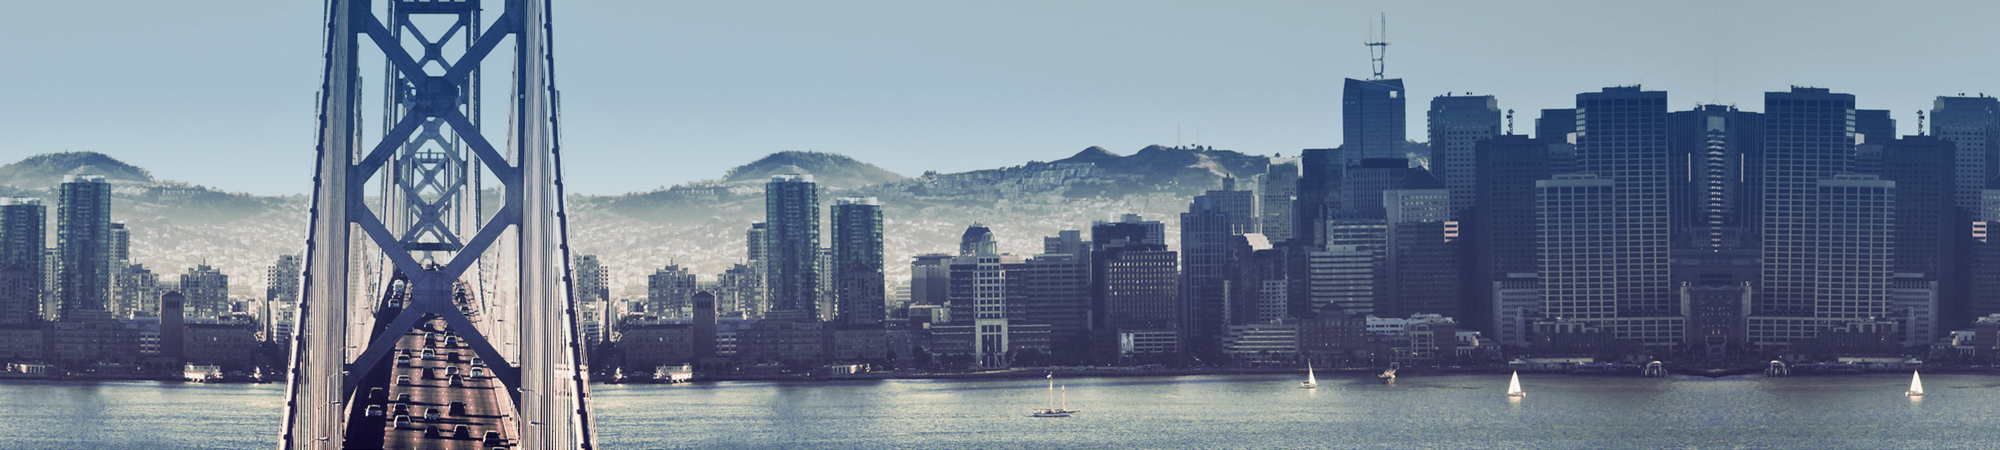
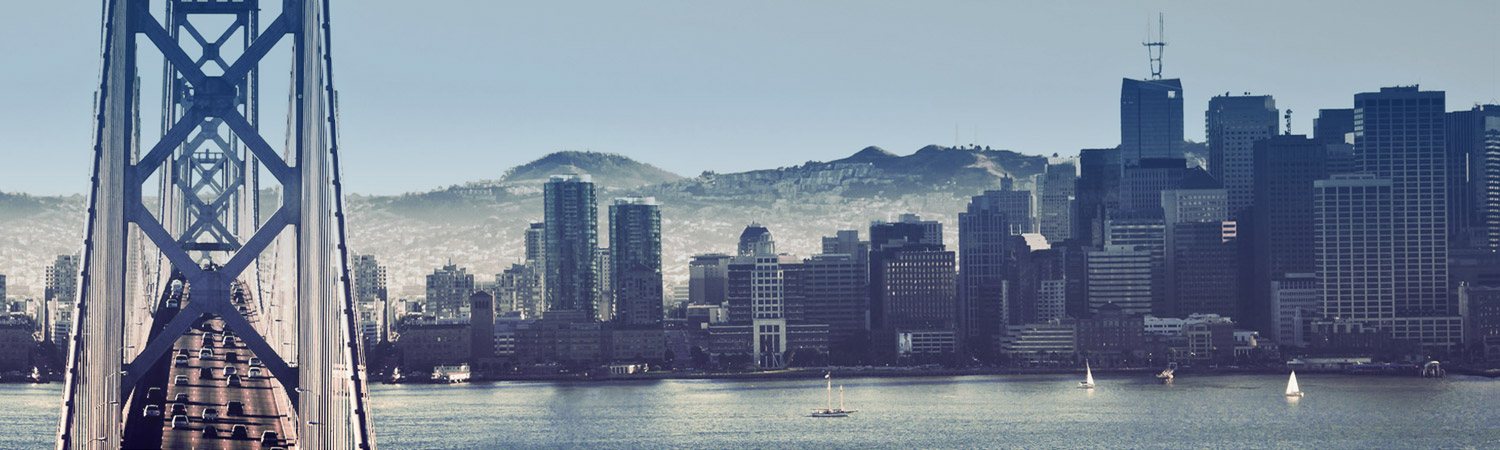
update index slide

diff --git a/app/views/Application/index.html b/app/views/Application/index.html
@@ -6,6 +6,7 @@
 <meta name="viewport" content="width=device-width initial-scale=1.0">
 <title>欢迎来到奥噗</title>
 <link rel="stylesheet" href="//netdna.bootstrapcdn.com/bootstrap/3.0.0/css/bootstrap.min.css">
+#{stylesheet 'op-theme.css' /}
 #{stylesheet 'font-awesome/css/font-awesome.min.css'  /}
 #{stylesheet 'index.css' /} #{stylesheet 'media-queries.css' /}
 </head>
@@ -24,23 +25,23 @@
 			<!-- Wrapper for slides -->
 			<div class="carousel-inner">
 				<div class="item active">
-					<img src="/public/img/img_1.png" alt="">
+					<img src="/public/images/img_1.png" alt="">
 					<div class="carousel-caption"></div>
 				</div>
 				<div class="item">
-					<img src="/public/img/img_2.png" alt="">
+					<img src="/public/images/img_2.png" alt="">
 					<div class="carousel-caption"></div>
 				</div>
 				<div class="item">
-					<img src="/public/img/img_3.png" alt="">
+					<img src="/public/images/img_3.png" alt="">
 					<div class="carousel-caption"></div>
 				</div>
 				<div class="item">
-					<img src="/public/img/img_4.png" alt="">
+					<img src="/public/images/img_4.png" alt="">
 					<div class="carousel-caption"></div>
 				</div>
 				<div class="item ">
-					<img src="/public/img/img_5.png" alt="">
+					<img src="/public/images/img_5.png" alt="">
 					<div class="carousel-caption"></div>
 				</div>
 
@@ -62,7 +63,6 @@
 				<h5 class="pull-right">
 					<a href="@{SimpleUsers.signup}" id="login-font1"> 注册<i class="icon-flag "></i></a>
 				</h5>
-
 				<div class="form-group">
 					<input type="email" class="form-control" id="email" placeholder="邮箱">
 				</div>
@@ -81,11 +81,11 @@
 
 	</header>
 
-
 	<div class="container">
 	
 		<div class="row">
 		<div class="col-md-6">
+		<h3>新生接机<small class="text-danger">WELCOME</small></h3>
 			<div class="">
 				<a href="@{Airports.index}">
 					<span class="small-title">新生接机</span> <span class="small-title2-1">WELCOME</span>

diff --git a/public/stylesheets/main.css b/public/stylesheets/main.css
@@ -1,20 +1,6 @@
 @charset "utf-8";
 
-body {
-	color: #000;
-	background: #f3f3f3;
-	font-family: "微软雅黑", Tahoma, Verdana, Arial, sans-serif
-}
-h1, h2, h3, h4, h5, h6, .h1, .h2, .h3, .h4, .h5, .h6{
-	font-family: "微软雅黑", Tahoma, Verdana, Arial, sans-serif
-}
-.navbar-brand {
-	padding: 5px;
-}
 
-.navbar-brand>img {
-	height: 35px;
-}
 
 .navbar-op {
 	background-color: #336699;
@@ -44,9 +30,6 @@ h1, h2, h3, h4, h5, h6, .h1, .h2, .h3, .h4, .h5, .h6{
 	background-color: #6699cc;
 }
 
-.navbar-form {
-	padding-top: 5px;
-}
 
 .global-search .form-control {
 	height: 25px;
@@ -93,9 +76,4 @@ h1, h2, h3, h4, h5, h6, .h1, .h2, .h3, .h4, .h5, .h6{
 	background:none;
 }
 
-.form-control, .btn ,.alert, .img-thumbnail{
-	border-radius:2px;
-}
-.alert{
-	padding:10px;
-}
+

diff --git a/app/views/main.html b/app/views/main.html
@@ -7,6 +7,7 @@
 <meta name="viewport" content="width=device-width initial-scale=1.0">
 <title>奥噗 - #{get 'title' /}</title>
 <link rel="stylesheet" href="//netdna.bootstrapcdn.com/bootstrap/3.0.0/css/bootstrap.min.css">
+#{stylesheet 'op-theme.css' /}
 #{stylesheet 'main.css' /}
 #{stylesheet 'font-awesome/css/font-awesome.min.css'  /}
 #{get 'Styles' /}

diff --git a/public/stylesheets/index.css b/public/stylesheets/index.css
@@ -1,7 +1,9 @@
 .slide {
 	position: absolute;
 }
-
+.slide .carousel-inner>.item>img, .carousel-inner>.item>a>img{
+	height:450px;
+}
 .logo {
 	position: absolute;
 	left:15%;
@@ -12,7 +14,7 @@
 .login {
 	position: absolute;
 	background-color:rgba(0,0,0,0.6);
-	height:427px;
+	height:450px;
 	left:70%;
 	color:#fff;
 	
